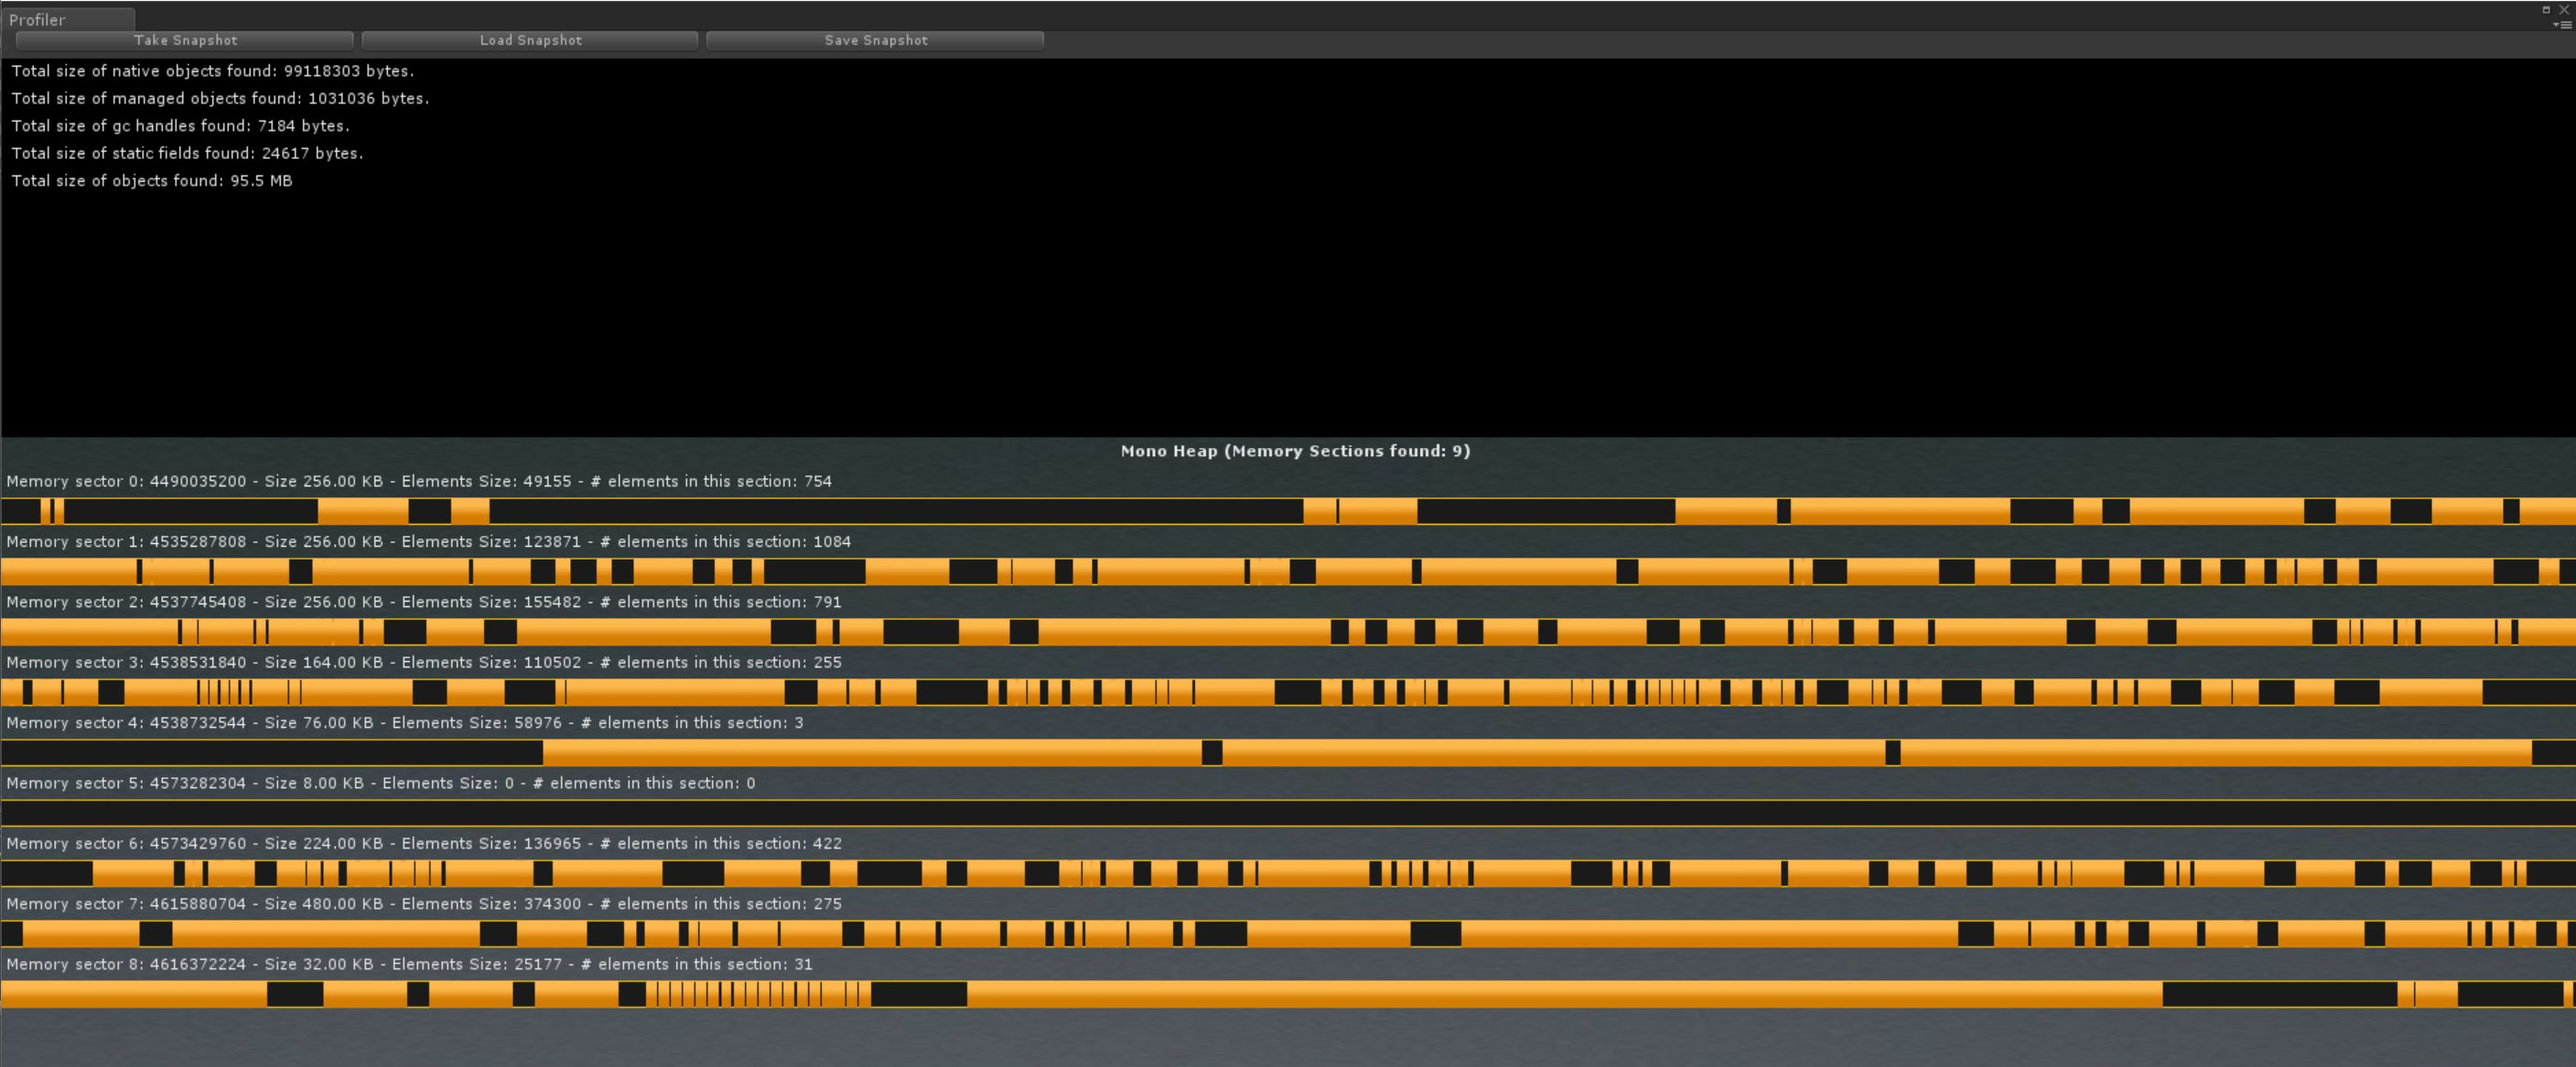
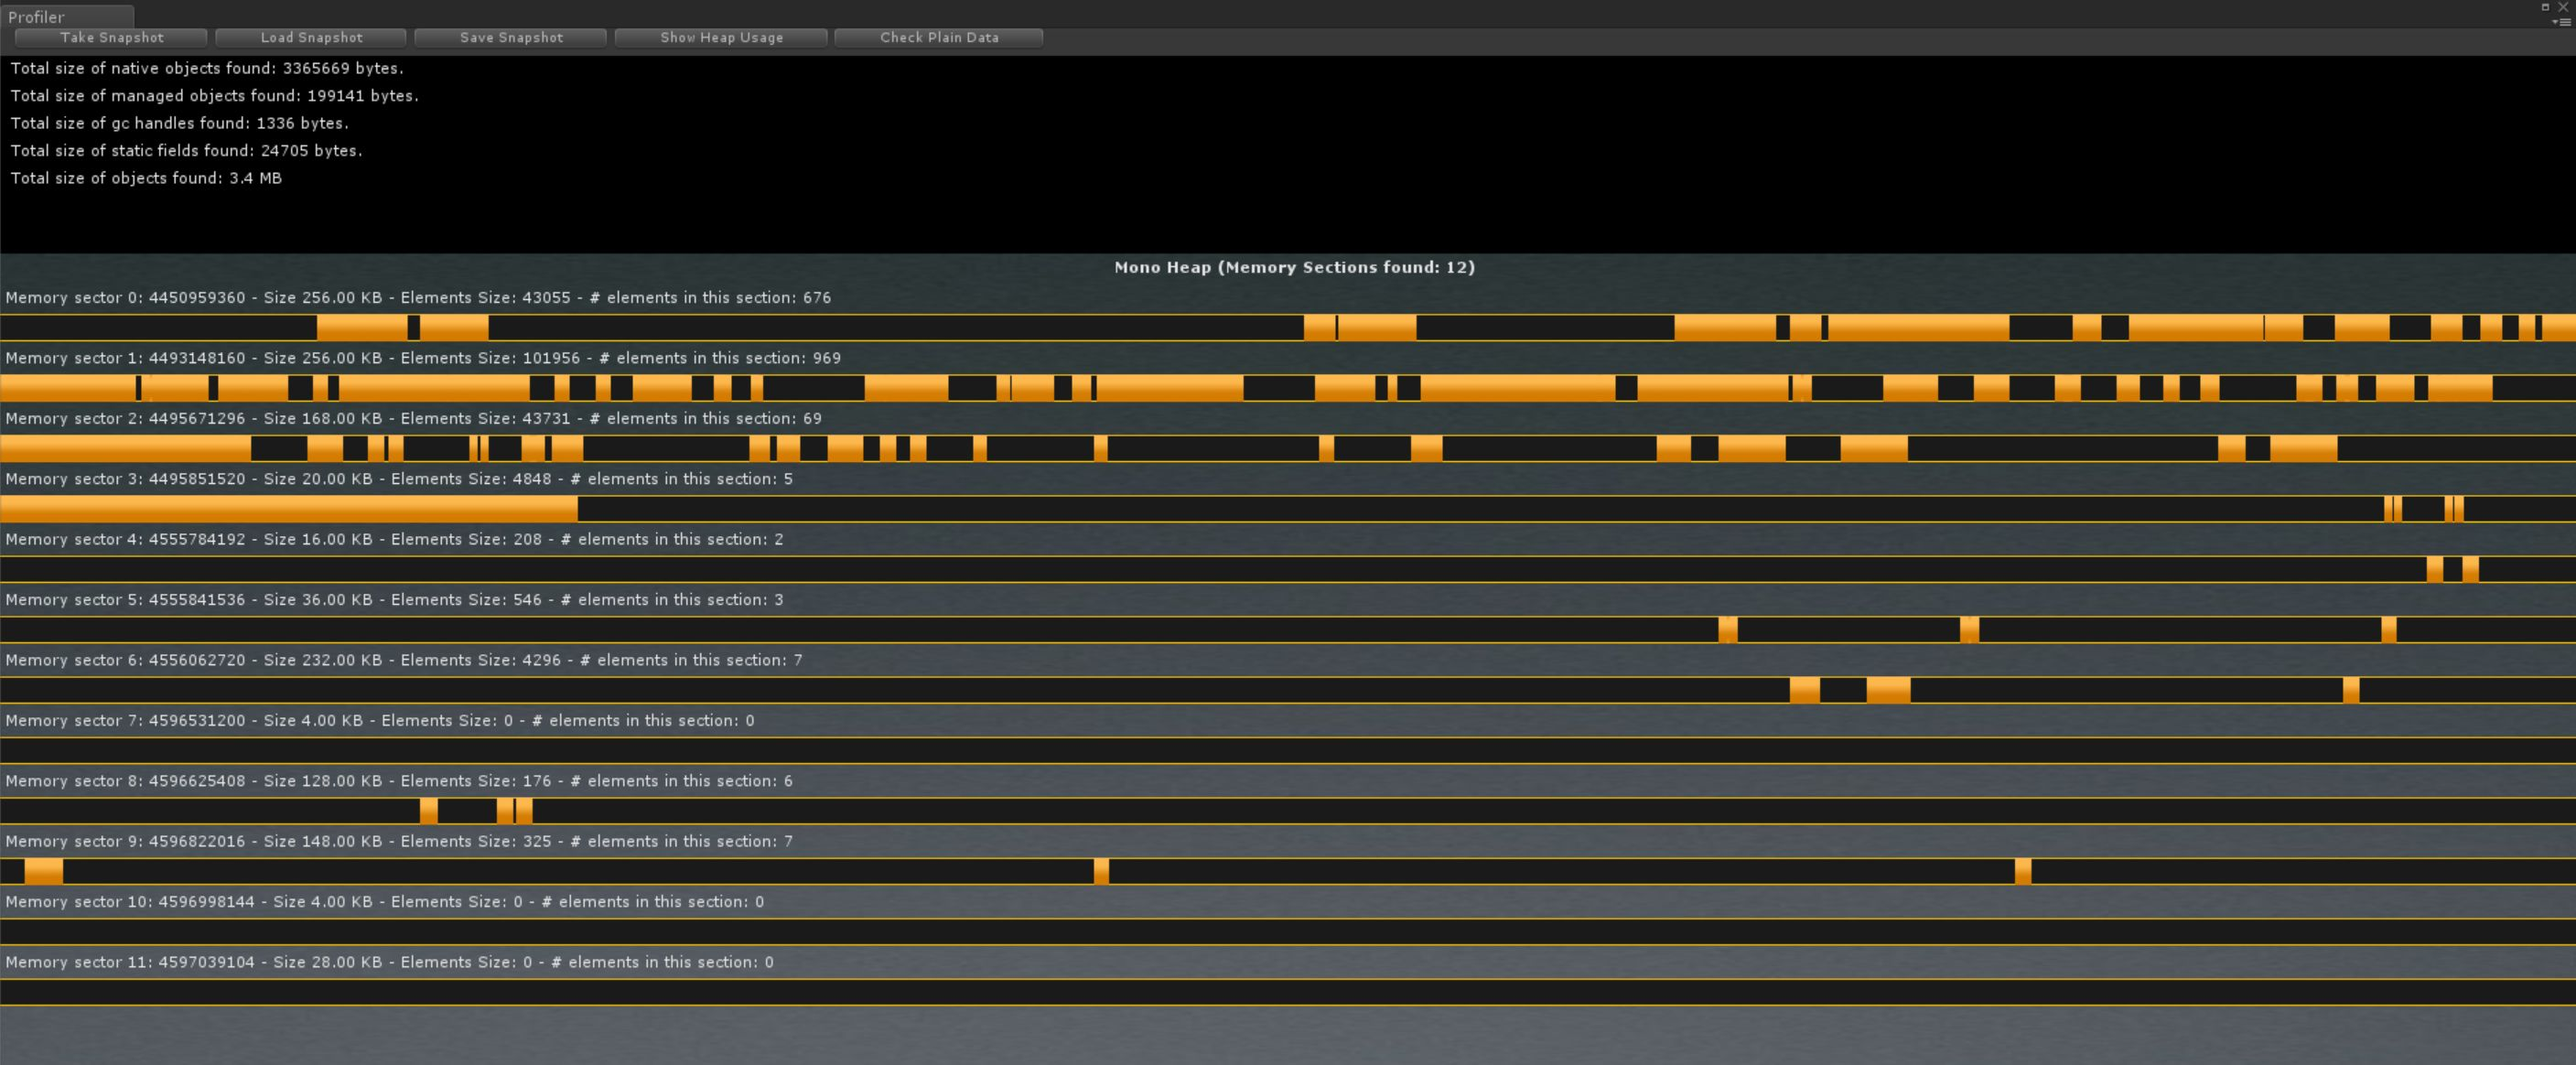
* Added support to export to an external .txt file the list of native and managed objects (ordered by size)

diff --git a/Assets/Editor/ProfilerWindow.cs b/Assets/Editor/ProfilerWindow.cs
@@ -26,6 +26,7 @@ namespace UnityEditor.MemoryProfiler2
 #endif
         string m_Status = "Profiling";
         bool bCheckHeapOnly = false;
+        bool bshowPlainData = false;
         //MyTreeAsset m_MyTreeAsset;
 
         [NonSerialized]
@@ -171,6 +172,8 @@ namespace UnityEditor.MemoryProfiler2
             }
             else
             {
+                Array.Sort(_unpackedCrawl.nativeObjects, new NativeUnityEngineObjectComparer());
+                Array.Sort(_unpackedCrawl.managedObjects, new ManagedObjectComparer());
                 m_nodeView.bShowMemHeap = false;
 #if UNITY_5_6_OR_NEWER
                 m_TreeModel.SetData ( populateData ( _unpackedCrawl.allObjects.Length ) );
@@ -263,9 +266,17 @@ namespace UnityEditor.MemoryProfiler2
             }
             else
             {
-                DoCanvasView(fullCanvasRect);
+                if (bshowPlainData)
+                {
+                    DrawPlainData();
+                }
+                else
+                {
+                    DoCanvasView(fullCanvasRect);
+                }
             }
             TopToolBar (topToolbarRect);
+           
 #if UNITY_5_6_OR_NEWER
             if (!bCheckHeapOnly)
             {
@@ -348,37 +359,48 @@ namespace UnityEditor.MemoryProfiler2
                         m_Status = "Saving snapshot.....";
                         PackedMemorySnapshotUtility.SaveToFile(_snapshot);
                     }
+
                 }
-#if UNITY_5_6_OR_NEWER
+
                 if (_unpackedCrawl != null)
                 {
+#if UNITY_5_6_OR_NEWER
+                    //if (bCheckHeapOnly)
+                    //{
 
-                    if (bCheckHeapOnly)
-                    {
                         if (GUILayout.Button("Show Tree/Node View", style))
                         {
                             bCheckHeapOnly = false;
                             m_nodeView.bShowMemHeap = false;
                             m_nodeView.ClearNodeView();
                             m_TreeView.Reload();
-                        
                         }
-                    }
-                    else
 
+                    //}
+                    //else
                     {
+#endif
                         if (GUILayout.Button("Show Heap Usage", style))
                         {
                             bCheckHeapOnly = true;
+                            bshowPlainData = false;
                             m_nodeView.ClearNodeView();
                             m_nodeView.CreateTreelessView(_unpackedCrawl);
                         }
-                    }
-                }
-#endif
-            }
 
-            GUILayout.EndArea();
+                        if (GUILayout.Button("Show Plain Data", style))
+                        {
+                            bCheckHeapOnly = true;
+                            bshowPlainData = true;
+                        }
+#if UNITY_5_6_OR_NEWER
+                    }
+#endif
+                }
+
+              }
+
+                    GUILayout.EndArea();
 		}
 
 		void BottomToolBar (Rect rect)
@@ -389,11 +411,82 @@ namespace UnityEditor.MemoryProfiler2
 				GUILayout.Label (m_Status);
 			}
 			GUILayout.EndArea();
-		}
+        }
+
+        public void DrawPlainData()
+        {
+            if (_unpackedCrawl != null)
+            {
+                GUILayout.Label(" ");
+                if (GUILayout.Button("Save full list of elements data to an external .txt file"))
+                {
+                    string exportPath = EditorUtility.SaveFilePanel("Save Snapshot Info", Application.dataPath, "SnapshotExport.txt", "txt");
+                    if (!String.IsNullOrEmpty(exportPath))
+                    {
+                        System.IO.StreamWriter sw = new System.IO.StreamWriter(exportPath);
+                        sw.WriteLine("Managed Objects");
+                        for (int i = 0; i < _unpackedCrawl.managedObjects.Length; i++)
+                        {
+                            ManagedObject managedObject = _unpackedCrawl.managedObjects[i];
+                            sw.WriteLine("Address: " + managedObject.address + ", Caption: " + managedObject.caption + ", Size: " + managedObject.size);
+                        }
+                        sw.WriteLine("Native Objects");
+                        for (int i = 0; i < _unpackedCrawl.nativeObjects.Length; i++)
+                        {
+                            NativeUnityEngineObject nativeObject = _unpackedCrawl.nativeObjects[i];
+                            sw.WriteLine("InstanceID: " + nativeObject.instanceID + ", Name: " + nativeObject.name + ", Size: " + nativeObject.size);
+                        }
+                        sw.Flush();
+                        sw.Close();
+                    }
+                }
+                GUILayout.Label(" ");
+                GUILayout.Label("Managed Objects - First 10 Elements: ");
+                GUILayout.Label(" ");
+                for (int i = 0; i < _unpackedCrawl.managedObjects.Length && i < 10; i++)
+                {
+                    ManagedObject managedObject = _unpackedCrawl.managedObjects[i];
+                    GUILayout.Label("Address: " + managedObject.address + ", Caption: " + managedObject.caption + ", Size: " + managedObject.size);
+                }
+                GUILayout.Label(" ");
+                GUILayout.Label("Native Objects - First 10 Elements:");
+                GUILayout.Label(" ");
+                for (int i = 0; i < _unpackedCrawl.nativeObjects.Length && i < 10; i++)
+                {
+                    NativeUnityEngineObject nativeObject = _unpackedCrawl.nativeObjects[i];
+                    GUILayout.Label("InstanceID: " + nativeObject.instanceID + ", Name: " + nativeObject.name + ", Size: " + nativeObject.size);
+                }
+            }
+        }
+
 	}
 
 
-	internal static class SearchField
+    public class NativeUnityEngineObjectComparer : System.Collections.Generic.IComparer<NativeUnityEngineObject>
+    {
+        public int Compare(NativeUnityEngineObject x, NativeUnityEngineObject y)
+        {
+            if (x.instanceID < y.instanceID) return -1;
+            if (x.instanceID > y.instanceID) return 1;
+            if (x.instanceID == y.instanceID) return 0;
+
+            return 0;
+        }
+    }
+
+    public class ManagedObjectComparer : System.Collections.Generic.IComparer<ManagedObject>
+    {
+        public int Compare(ManagedObject x, ManagedObject y)
+        {
+            if (x.address < y.address) return -1;
+            if (x.address > y.address) return 1;
+            if (x.address == y.address) return 0;
+
+            return 0;
+        }
+    }
+
+internal static class SearchField
 	{
 		static class Styles
 		{

diff --git a/README.md b/README.md
@@ -1,11 +1,13 @@
 # Support-Unity Memory Profiler Extension
-Extension for the existing Unity memory profiler project, this is a WIP project which uses as a base the Memory Profiler project found in https://bitbucket.org/Unity-Technologies/memoryprofiler and uses the new memory profiler API introduced in Unity5.3a4, adding filters and search options with a node viewer for the objects and their references.
+Extension for the existing Unity memory profiler project, this is a WIP project made by the Unity Support Team in Colombia, which uses as a base the Memory Profiler project found in https://bitbucket.org/Unity-Technologies/memoryprofiler and uses the new memory profiler API introduced in Unity5.3a4, adding filters and search options with a node viewer for the objects and their references.
 
 * Requires Unity 5.6 or newer in order to use the filters and table views
+* For checking the Heap Memory info and export objects list data (ordered by size) to a .txt file you could use any version of Unity that supports the API: (5.3,5.4,5.5,5.6,2017) 
 * Requires a IL2CPP build
 * It uses the same snapshots taken with the Memory Profiler project from bitbucket (You can use as an example memory snapshot which is included in the repository)
 * It's recommended to read snapshots taken from the same Unity version (for example analyse 5.6 snapshots using 5.6 editor,etc) 
 
 ![Alt text](/Documentation/Images/TreeView.jpg?raw=true "Memory Profiler Tree/Node Window")
 ![Alt text](/Documentation/Images/HeapView.jpg?raw=true "Memory Profiler Heap Window")
+![Alt text](/Documentation/Images/PlainData.jpg?raw=true "Memory Profiler Plain Data Window")
 
